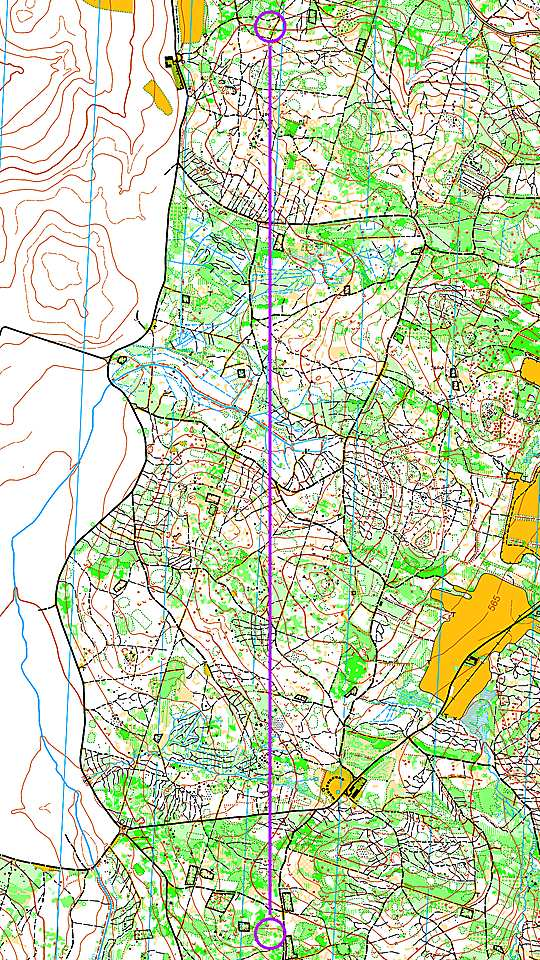
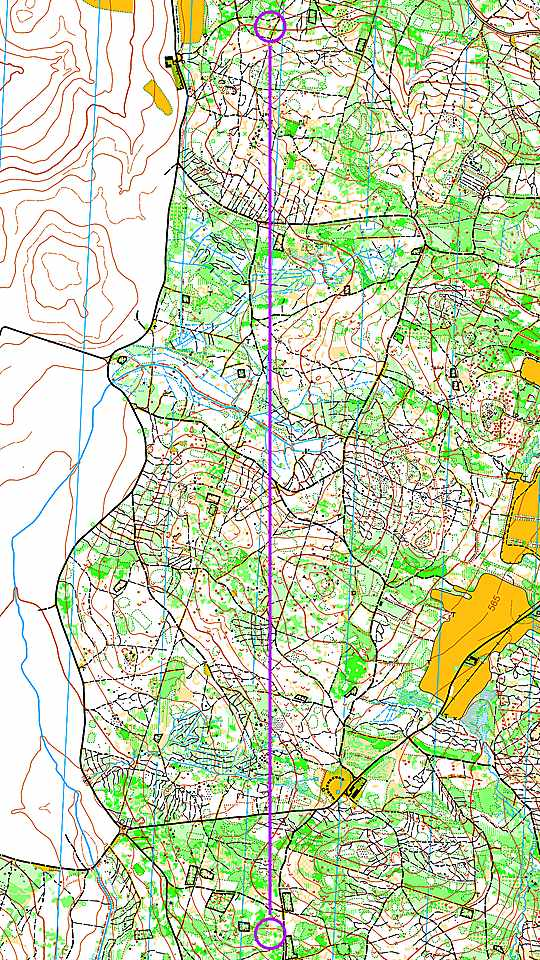
s

diff --git a/14_export_thumbnails.py b/14_export_thumbnails.py
@@ -31,11 +31,11 @@ Image.MAX_IMAGE_PIXELS = None
 
 # Cílový poměr stran 4:5 (šířka:výška, IG portrait)
 TARGET_ASPECT = 4 / 5
-# Velikost výstupního thumbnailu (vyváženo na 1200px pro perfektní 1:1 pixelovou ostrost při 7x zoomu)
-THUMB_WIDTH = 1200
-THUMB_HEIGHT = int(THUMB_WIDTH / TARGET_ASPECT)  # = 1500
-# JPEG kvalita (55 pro extrémně efektivní kompresi bez viditelných artefaktů na mobilu)
-JPEG_QUALITY = 55
+# Velikost výstupního thumbnailu (zvýšena na 2000px pro absolutní ostrost i při extrémním 13x zoomu)
+THUMB_WIDTH = 2000
+THUMB_HEIGHT = int(THUMB_WIDTH / TARGET_ASPECT)  # = 2500
+# JPEG kvalita (45 pro vynikající kompresi velkých rozlišení bez jakýchkoliv viditelných artefaktů)
+JPEG_QUALITY = 45
 # Výchozí zoom kamery na úvodní stránce (700 % = detailní záběr mapy s čitelnými vrstevnicemi a kameny)
 DEFAULT_MAP_ZOOM = 700
 
